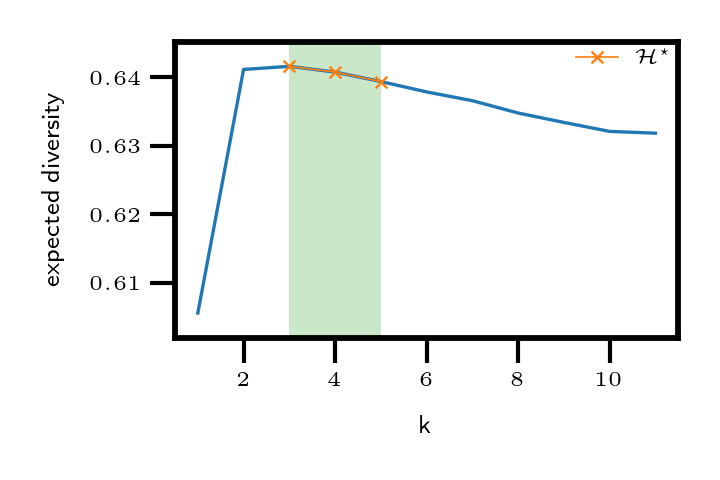
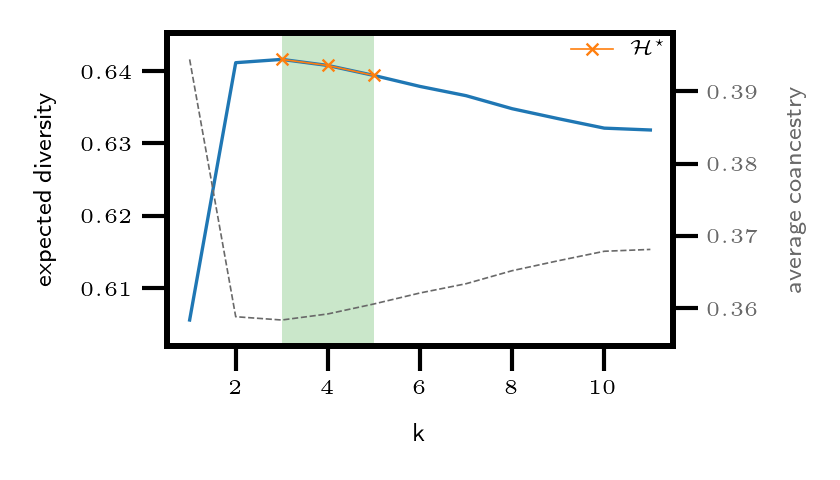
edit plot

diff --git a/utility.py b/utility.py
@@ -574,9 +574,10 @@ def plot_coans(CMS, CMU, PLOT_PATH, krec):
   # plt.rcParams.update(plt.rcParamsDefault)
   x = np.arange(1, len(CMS)+1)
   y1 = 1-np.array(CMS)
-  y2 = 1-np.array(CMU)
+  # y2 = 1-np.array(CMU)
+  y2= np.array(CMS)
   plt.rcParams['axes.linewidth'] = 0.35
-  figsz = (0.6, 0.4)
+  figsz = (0.7, 0.4)
   fig = plt.figure(figsize=figsz,tight_layout=True, dpi=1200)
   gs = gridspec.GridSpec(1,1)
   ax = [plt.subplot(gsi) for gsi in gs]
@@ -586,7 +587,7 @@ def plot_coans(CMS, CMU, PLOT_PATH, krec):
   y3 = [el for el in y1[xs[0]-1:xs[-1]]] #todo
 
   # ax[0].plot(x,y1,label=r"$\mathsf{learnt}$",linewidth=0.2, marker=',', markersize=0.1, markevery=0.2)
-  # ax[0].plot(x,y2,label=r"$\mathsf{uniform}$",linewidth=0.1, marker=',', markersize=0.1, markevery=0.2, linestyle="dashed")
+  # ax[0].plot(x,y2,label=r"$\mathsf{uniform}}$",linewidth=0.1, marker=',', markersize=0.1, markevery=0.2, linestyle="dashed")
   ax[0].plot(x,y1,linewidth=0.2, marker=',', markersize=0.1, markevery=0.2)
   ax[0].plot(xs,y3,label=r"$\mathcal{H}^\star$",linewidth=0.1, marker='x',  markersize=0.1)
   
@@ -602,8 +603,18 @@ def plot_coans(CMS, CMU, PLOT_PATH, krec):
   ax[0].xaxis.set_tick_params(labelsize=1.25,length=1.5, width=csts['LW'],pad=0.5)
   ax[0].yaxis.set_tick_params(labelsize=1.25,length=1.5, width=csts['LW'],pad=0.5)
   ax[0].margins(y=0.1, tight=True)
+  
+  ax2 = ax[0].twinx()  # instantiate a second axes that shares the same x-axis
+  color = "dimgray"
+  ax2.set_ylabel(r"$\mathsf{average~coancestry}$", fontsize=1.5, labelpad=1.5, color=color)
+  ax2.plot(x, y2, color=color,linewidth=0.1, linestyle="dashed", markersize=0.1, markevery=0.2)
+  ax2.yaxis.set_tick_params(labelsize=1.25,length=1.5, width=csts['LW'],pad=0.5, labelcolor=color)
+  ax2.margins(y=0.1, tight=True)
+  
+  
   ax[0].legend( loc='best', ncols=1, borderaxespad=0.,fontsize=1.25, fancybox=False, edgecolor='black', frameon=False)
-  plt.tight_layout(pad=0.25)
+
+  plt.tight_layout(pad=0.2)
   figpath = f"{PLOT_PATH}/coan_plot.png"
   plt.savefig(figpath, dpi=1200)
   plt.close(fig)

diff --git a/sslcmd.py b/sslcmd.py
@@ -125,7 +125,7 @@ def str2bool(s):
     return s == 'True'
   
 override = False # production behaviour.
-override = True # uncomment for testing/debugging.
+# override = True # uncomment for testing/debugging.
 
 if not override:
   parser = argparse.ArgumentParser(description="SSL CLI Tool!")
